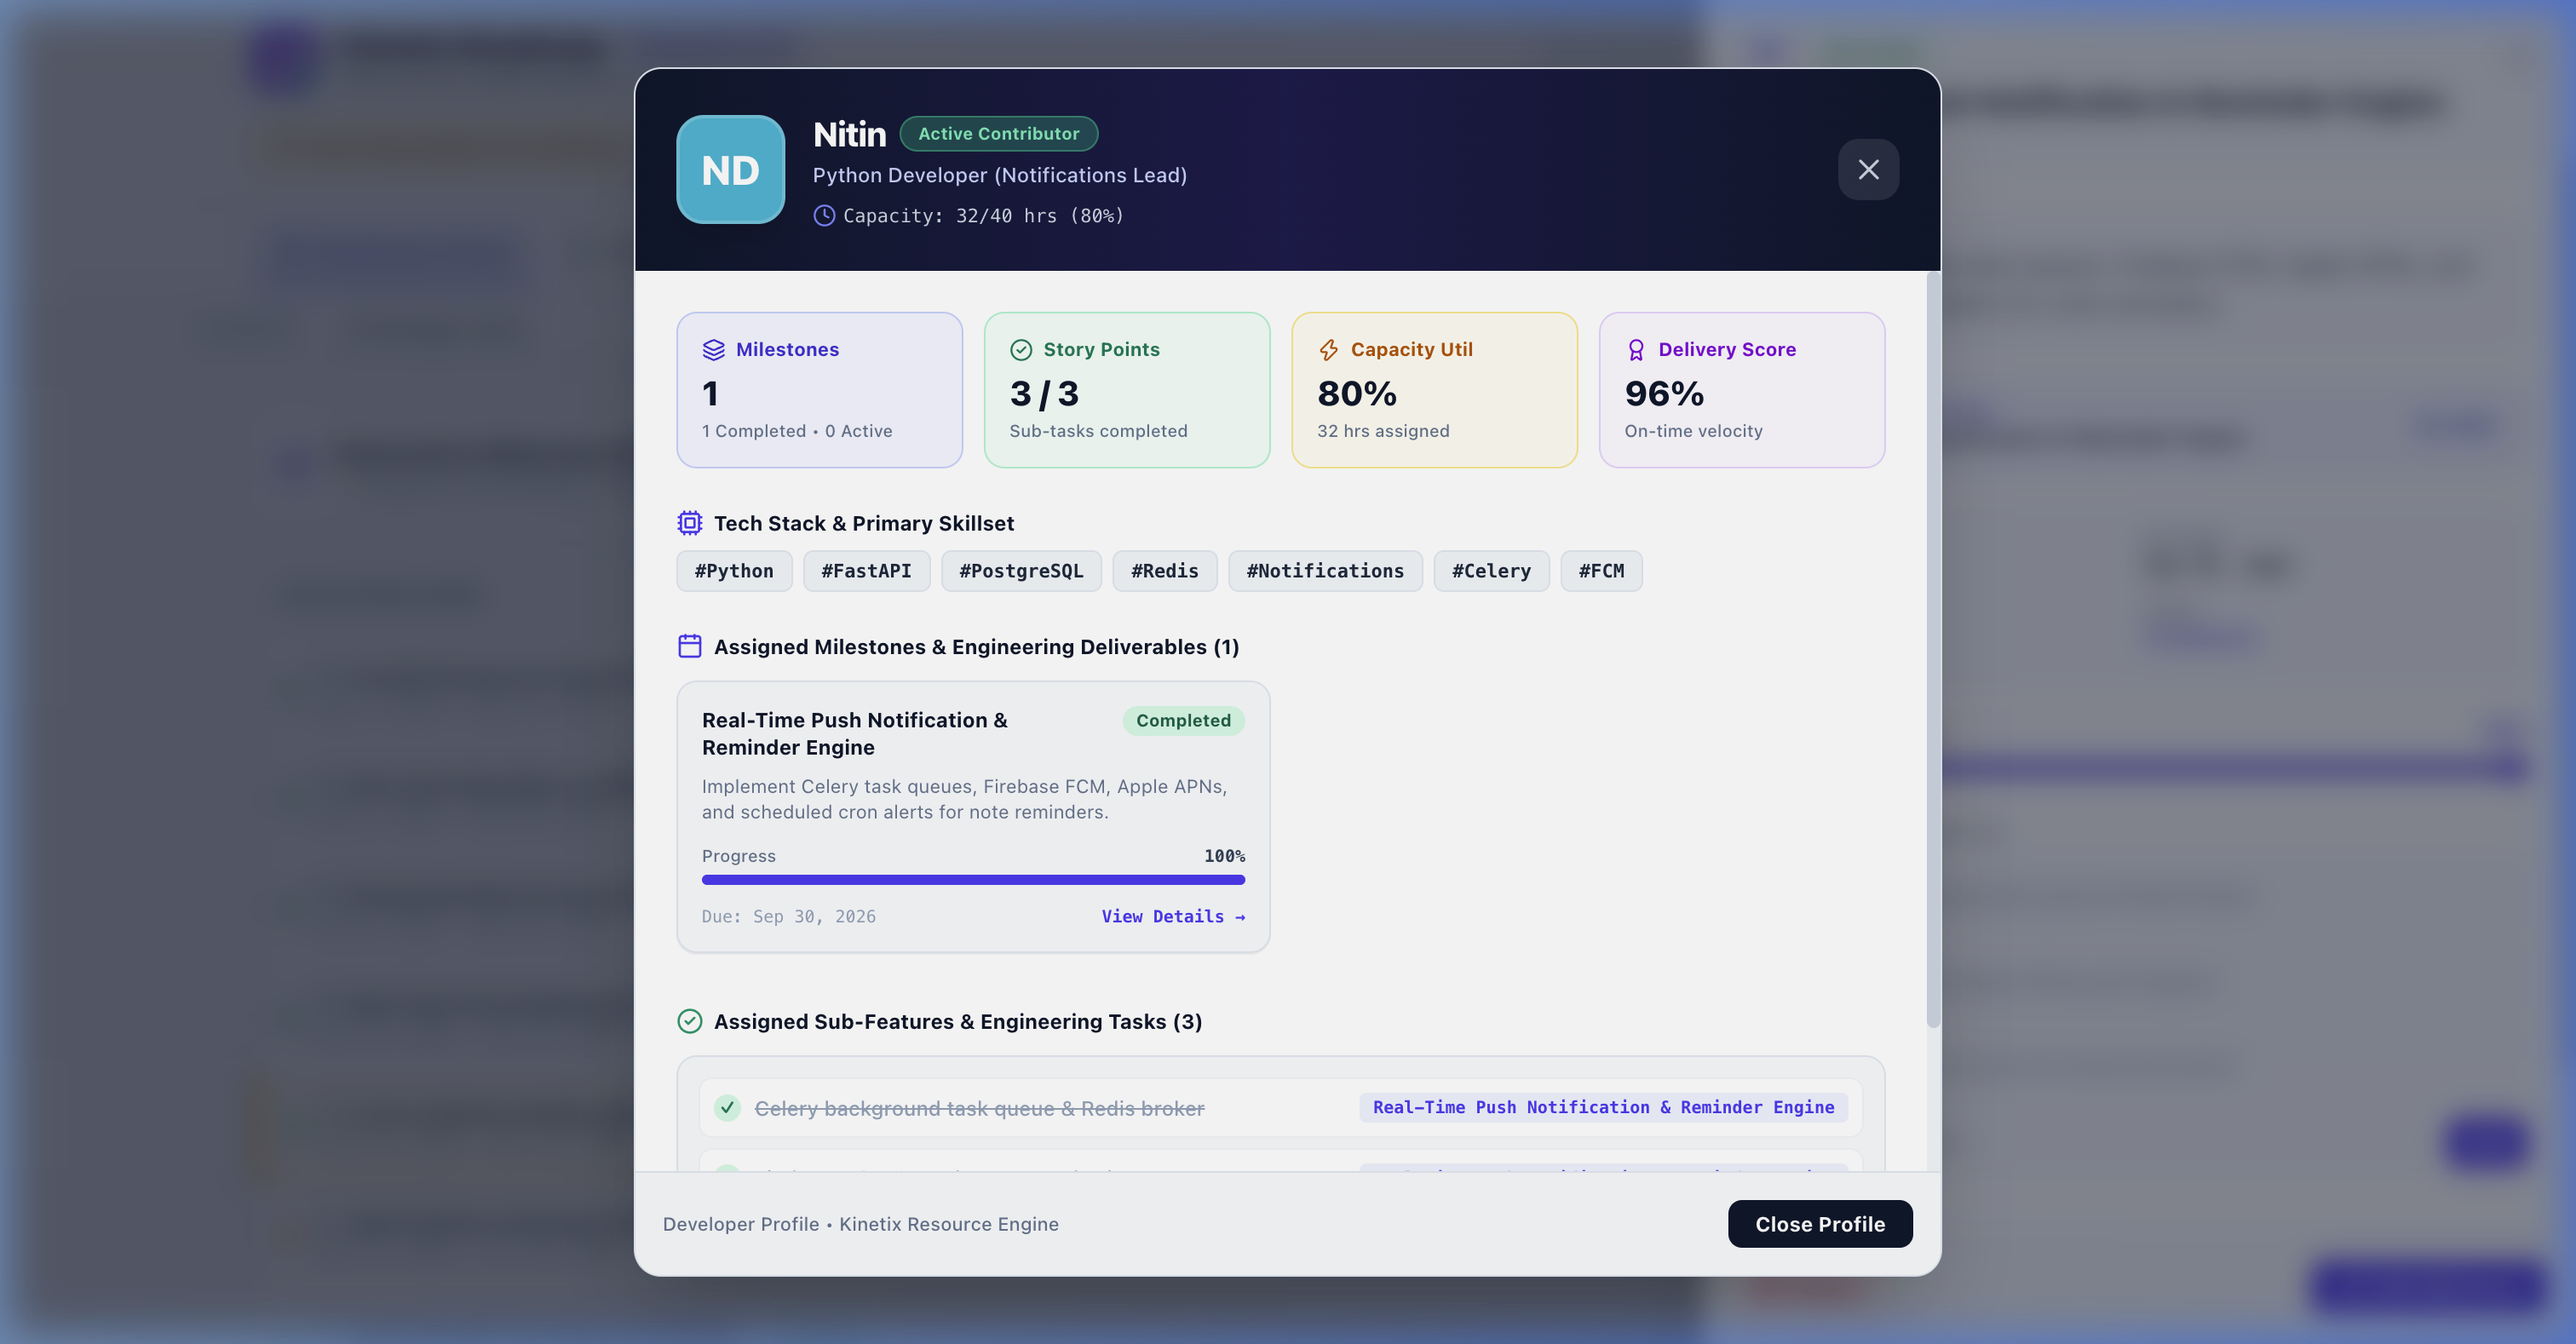
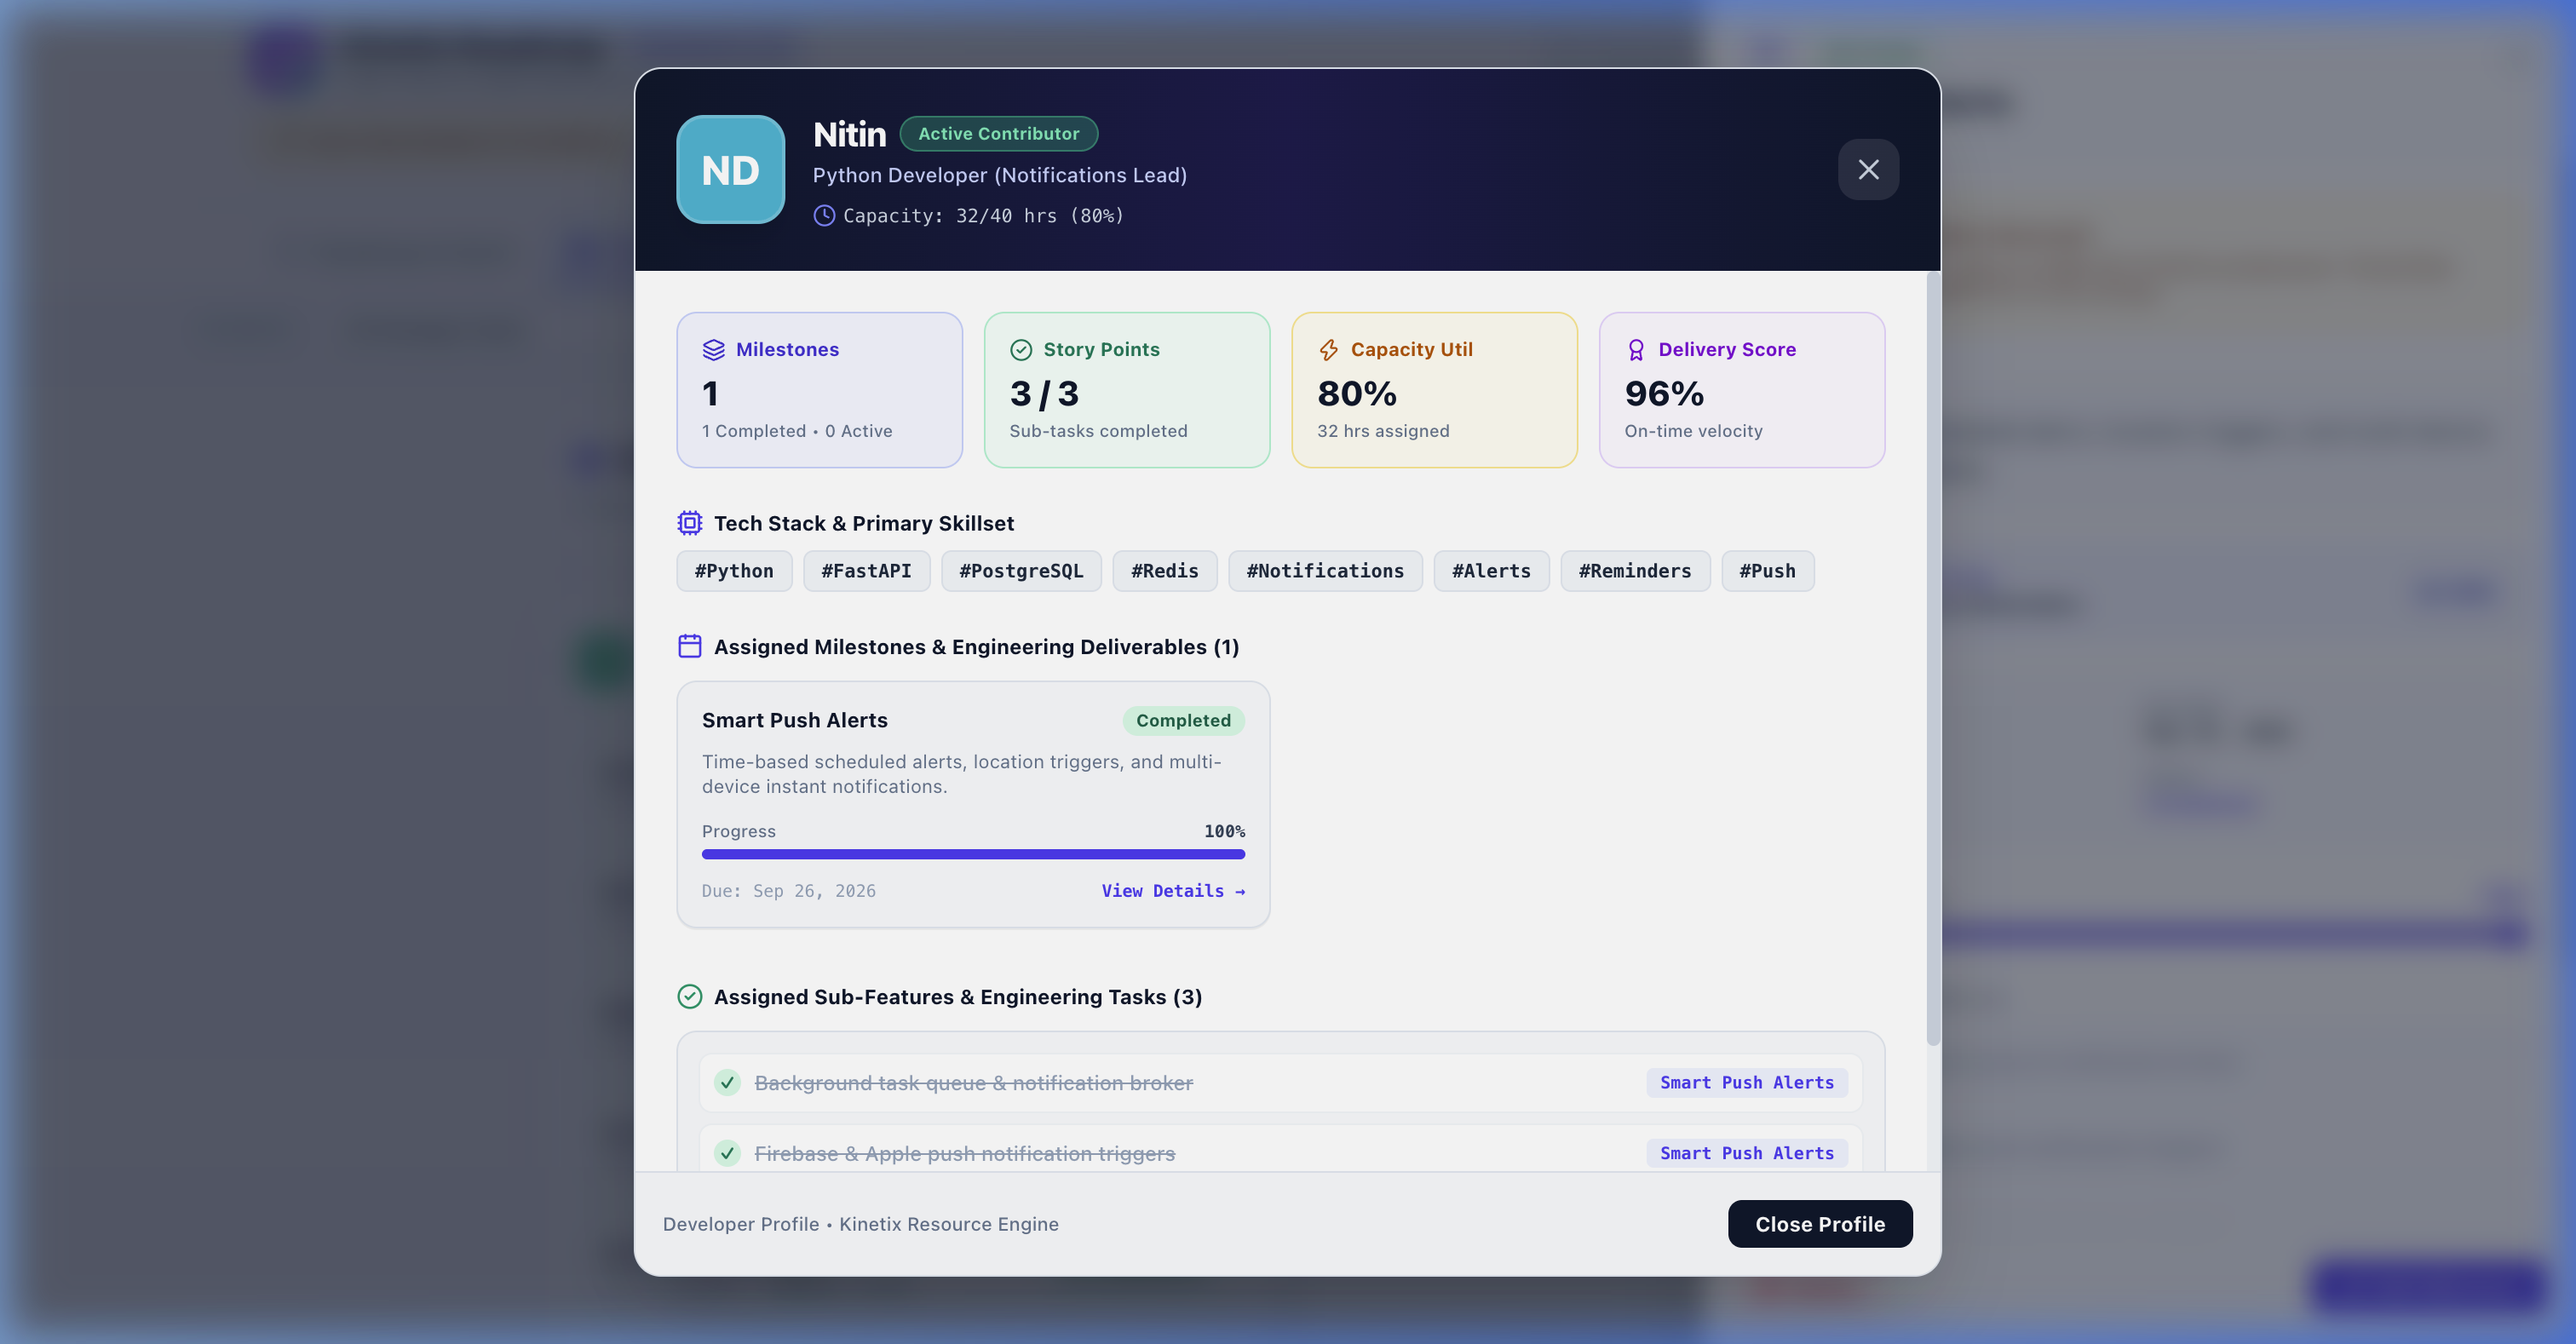
Update milestone titles to crisp 2-3 word user feature names (Cloud Data Sync, Web Rich Editor, Global Hosting Engine, Smart Push Alerts, iOS & Android Apps, Workspace Sharing, Quality & Security QA, AI Voice Transcribe)

diff --git a/src/data/mockData.js b/src/data/mockData.js
@@ -1,43 +1,43 @@
 export const initialGoals = [
   {
     id: 'goal-1',
-    title: 'Core Engine & Real-Time Sync Infrastructure',
-    category: 'Backend Architecture',
+    title: 'Cloud Core & Data Sync Engine',
+    category: 'Product Architecture',
     targetQuarter: 'Q4 2026',
     progress: 80,
     color: '#6366f1', // Indigo
     owner: 'Anurag',
-    description: 'Build robust Python FastAPI microservices, PostgreSQL database schema, Redis caching, and real-time offline sync.'
+    description: 'Deliver sub-50ms cloud note synchronization, offline database persistence, and robust platform security.'
   },
   {
     id: 'goal-2',
-    title: 'Cross-Platform Mobile App (iOS & Android)',
-    category: 'Mobile Clients',
+    title: 'Mobile App Experience (iOS & Android)',
+    category: 'Mobile Applications',
     targetQuarter: 'Q4 2026',
     progress: 55,
     color: '#ec4899', // Pink
     owner: 'Ram',
-    description: 'Deliver native-grade React Native app for iOS & Android with offline-first auto-sync, voice notes, and widgets.'
+    description: 'Build native iOS and Android apps with offline editing, voice memo recording, and home screen widgets.'
   },
   {
     id: 'goal-3',
-    title: 'Real-Time Push Notification & Reminder Engine',
-    category: 'Cloud Services',
+    title: 'Smart Push Alerts & Reminders',
+    category: 'Notifications',
     targetQuarter: 'Q3 2026',
     progress: 100,
     color: '#10b981', // Emerald
     owner: 'Nitin',
-    description: 'Implement Firebase FCM, Apple APNs, and Celery scheduled cron jobs for time-based & geo-fenced note alerts.'
+    description: 'Trigger instant mobile push alerts, scheduled calendar reminders, and geo-fenced location notifications.'
   },
   {
     id: 'goal-4',
-    title: 'Multi-Platform Workspace Note Sharing & Collaboration',
+    title: 'Workspace Sharing & Co-Editing',
     category: 'Collaboration',
     targetQuarter: 'Q3 2026',
     progress: 40,
     color: '#f59e0b', // Amber
     owner: 'Jitendra',
-    description: 'Enable secure link sharing, fine-grained permission control, and live multi-user co-editing via WebSockets.'
+    description: 'Enable one-click link sharing, custom access permissions, and real-time live co-editing across teams.'
   }
 ];
 
@@ -54,8 +54,8 @@ export const initialTeam = [
 export const initialMilestones = [
   {
     id: 'ms-1',
-    title: 'FastAPI Backend Architecture & PostgreSQL Schema',
-    description: 'Design multi-tenant PostgreSQL schema, FastAPI REST API foundation, and Redis caching for high-speed note CRUD ops.',
+    title: 'Cloud Data Sync',
+    description: 'Sub-50ms cloud data synchronization, secure user authentication, and high-speed note storage.',
     goalId: 'goal-1',
     startDate: '2026-09-01',
     dueDate: '2026-09-15',
@@ -69,19 +69,19 @@ export const initialMilestones = [
     riceConfidence: 0.95,
     riceEffort: 3,
     owner: 'Jitendra',
-    tags: ['Python', 'FastAPI', 'PostgreSQL', 'Backend'],
+    tags: ['Cloud', 'Sync', 'Security', 'Database'],
     progress: 100,
     dependencies: [],
     features: [
-      { id: 'f-101', title: 'FastAPI async REST endpoints for Notes & Labels', completed: true, points: 8 },
-      { id: 'f-102', title: 'PostgreSQL schema migration scripts with Alembic', completed: true, points: 5 },
-      { id: 'f-103', title: 'Redis cache layer for sub-50ms note fetching', completed: true, points: 5 }
+      { id: 'f-101', title: 'Instant REST API for Notes & Labels', completed: true, points: 8 },
+      { id: 'f-102', title: 'Database schema migration and data safety', completed: true, points: 5 },
+      { id: 'f-103', title: 'Sub-50ms Redis memory cache layer', completed: true, points: 5 }
     ]
   },
   {
     id: 'ms-2',
-    title: 'Rich-Text Web Editor & Offline Sync Engine',
-    description: 'Build TipTap rich text web dashboard with checklist support and IndexedDB offline storage auto-sync.',
+    title: 'Web Rich Editor',
+    description: 'Interactive formatting toolbar, checklists, bullet lists, and automatic offline local drafts.',
     goalId: 'goal-1',
     startDate: '2026-09-05',
     dueDate: '2026-09-20',
@@ -95,19 +95,19 @@ export const initialMilestones = [
     riceConfidence: 0.9,
     riceEffort: 3,
     owner: 'Ram',
-    tags: ['React', 'Frontend', 'TipTap', 'Offline'],
+    tags: ['Web', 'Editor', 'RichText', 'Offline'],
     progress: 100,
     dependencies: [],
     features: [
-      { id: 'f-201', title: 'TipTap rich text editor with checklist formatting', completed: true, points: 8 },
+      { id: 'f-201', title: 'Rich text editor with checklist formatting', completed: true, points: 8 },
       { id: 'f-202', title: 'IndexedDB local storage fallback manager', completed: true, points: 5 },
       { id: 'f-203', title: 'Automatic background sync queue handler', completed: true, points: 5 }
     ]
   },
   {
     id: 'ms-3',
-    title: 'Dockerized Microservices & AWS Cloud CI/CD',
-    description: 'Set up multi-container Docker infrastructure, AWS ECS deployment pipeline, and GitHub Actions CI/CD.',
+    title: 'Global Hosting Engine',
+    description: 'High-availability multi-region hosting, automated deployments, and sub-second load balancing.',
     goalId: 'goal-1',
     startDate: '2026-09-08',
     dueDate: '2026-09-22',
@@ -121,19 +121,19 @@ export const initialMilestones = [
     riceConfidence: 0.95,
     riceEffort: 2,
     owner: 'Shyam',
-    tags: ['DevOps', 'Docker', 'AWS', 'CI/CD'],
+    tags: ['Cloud', 'Hosting', 'Containers', 'CI/CD'],
     progress: 100,
     dependencies: [],
     features: [
-      { id: 'f-301', title: 'Docker-compose multi-service container setup', completed: true, points: 5 },
-      { id: 'f-302', title: 'AWS ECS Fargate cluster orchestration & ALB', completed: true, points: 8 },
-      { id: 'f-303', title: 'GitHub Actions automated build & test pipeline', completed: true, points: 5 }
+      { id: 'f-301', title: 'Multi-service container cluster setup', completed: true, points: 5 },
+      { id: 'f-302', title: 'AWS Cloud cluster orchestration & load balancer', completed: true, points: 8 },
+      { id: 'f-303', title: 'Automated build & release deployment pipeline', completed: true, points: 5 }
     ]
   },
   {
     id: 'ms-4',
-    title: 'Real-Time Push Notification & Reminder Engine',
-    description: 'Implement Celery task queues, Firebase FCM, Apple APNs, and scheduled cron alerts for note reminders.',
+    title: 'Smart Push Alerts',
+    description: 'Time-based scheduled alerts, location triggers, and multi-device instant notifications.',
     goalId: 'goal-3',
     startDate: '2026-09-12',
     dueDate: '2026-09-26',
@@ -147,19 +147,19 @@ export const initialMilestones = [
     riceConfidence: 0.9,
     riceEffort: 3,
     owner: 'Nitin',
-    tags: ['Python', 'Notifications', 'Celery', 'FCM'],
+    tags: ['Notifications', 'Alerts', 'Reminders', 'Push'],
     progress: 100,
     dependencies: ['ms-1'],
     features: [
-      { id: 'f-401', title: 'Celery background task queue & Redis broker', completed: true, points: 5 },
-      { id: 'f-402', title: 'Firebase FCM & Apple APNs push triggers', completed: true, points: 8 },
-      { id: 'f-403', title: 'Scheduled cron worker for timed note alerts', completed: true, points: 5 }
+      { id: 'f-401', title: 'Background task queue & notification broker', completed: true, points: 5 },
+      { id: 'f-402', title: 'Firebase & Apple push notification triggers', completed: true, points: 8 },
+      { id: 'f-403', title: 'Scheduled worker for timed note reminders', completed: true, points: 5 }
     ]
   },
   {
     id: 'ms-5',
-    title: 'Cross-Platform Mobile App (React Native iOS & Android)',
-    description: 'Develop Google Keep-style mobile application with offline auto-sync, grid layout, and audio note attachments.',
+    title: 'iOS & Android Apps',
+    description: 'Native mobile experience with touch gestures, offline editing, home screen widgets, and voice memos.',
     goalId: 'goal-2',
     startDate: '2026-09-18',
     dueDate: '2026-10-15',
@@ -173,19 +173,19 @@ export const initialMilestones = [
     riceConfidence: 0.85,
     riceEffort: 4,
     owner: 'Akshay',
-    tags: ['React Native', 'Mobile', 'iOS', 'Android'],
+    tags: ['Mobile', 'iOS', 'Android', 'App'],
     progress: 60,
     dependencies: ['ms-1', 'ms-2'],
     features: [
-      { id: 'f-501', title: 'React Native unified UI component kit', completed: true, points: 8 },
-      { id: 'f-502', title: 'SQLite local mobile database storage', completed: true, points: 5 },
-      { id: 'f-503', title: 'Voice note recording & audio player module', completed: false, points: 5 }
+      { id: 'f-501', title: 'Unified mobile UI component kit', completed: true, points: 8 },
+      { id: 'f-502', title: 'Offline mobile database storage engine', completed: true, points: 5 },
+      { id: 'f-503', title: 'Voice note recording & audio playback module', completed: false, points: 5 }
     ]
   },
   {
     id: 'ms-6',
-    title: 'Multi-Platform Workspace Note Sharing & Collaboration',
-    description: 'Build public share links, granular view/edit permission levels, and WebSocket live co-editing.',
+    title: 'Workspace Sharing',
+    description: 'Granular access permissions, instant share links, and real-time live co-editing.',
     goalId: 'goal-4',
     startDate: '2026-09-22',
     dueDate: '2026-10-20',
@@ -199,19 +199,19 @@ export const initialMilestones = [
     riceConfidence: 0.8,
     riceEffort: 3,
     owner: 'Jitendra',
-    tags: ['Python', 'WebSockets', 'Sharing', 'Collaboration'],
+    tags: ['Sharing', 'Collaboration', 'Permissions', 'Co-Editing'],
     progress: 40,
     dependencies: ['ms-1'],
     features: [
       { id: 'f-601', title: 'Granular note permissions (Viewer, Editor, Owner)', completed: true, points: 5 },
       { id: 'f-602', title: 'Public note link generator with optional password', completed: false, points: 5 },
-      { id: 'f-603', title: 'WebSockets live co-editing & cursor presences', completed: false, points: 8 }
+      { id: 'f-603', title: 'Live co-editing & multi-cursor presence', completed: false, points: 8 }
     ]
   },
   {
     id: 'ms-7',
-    title: 'Automated QA Test Suite & Performance Load Verification',
-    description: 'Execute PyTest API suite, Cypress E2E web regression suite, and Locust 10k concurrent user load tests.',
+    title: 'Quality & Security QA',
+    description: 'Comprehensive end-to-end regression testing, security auditing, and high-concurrency load verification.',
     goalId: 'goal-1',
     startDate: '2026-09-25',
     dueDate: '2026-10-22',
@@ -225,19 +225,19 @@ export const initialMilestones = [
     riceConfidence: 0.9,
     riceEffort: 3,
     owner: 'Dinesh',
-    tags: ['QA', 'Automation', 'PyTest', 'Cypress'],
+    tags: ['QA', 'Testing', 'Security', 'Automation'],
     progress: 50,
     dependencies: ['ms-5', 'ms-6'],
     features: [
-      { id: 'f-701', title: 'PyTest backend API test suite (90%+ coverage)', completed: true, points: 5 },
-      { id: 'f-702', title: 'Cypress web E2E automated regression suite', completed: false, points: 5 },
-      { id: 'f-703', title: 'Locust load testing suite verifying 10k users', completed: false, points: 5 }
+      { id: 'f-701', title: 'Automated backend API test suite (90%+ coverage)', completed: true, points: 5 },
+      { id: 'f-702', title: 'Web E2E automated regression test suite', completed: false, points: 5 },
+      { id: 'f-703', title: 'High-concurrency load testing for 10k users', completed: false, points: 5 }
     ]
   },
   {
     id: 'ms-8',
-    title: 'AI-Powered Voice Note Transcription & Semantic Search',
-    description: 'Integrate OpenAI Whisper for automatic audio-to-text conversion and pgvector for semantic note search.',
+    title: 'AI Voice Transcribe',
+    description: 'Automatic voice-to-text audio conversion and AI-powered natural language note search.',
     goalId: 'goal-2',
     startDate: '2026-10-10',
     dueDate: '2026-11-05',
@@ -251,12 +251,12 @@ export const initialMilestones = [
     riceConfidence: 0.8,
     riceEffort: 4,
     owner: 'Ram',
-    tags: ['AI', 'Whisper', 'Search', 'pgvector'],
+    tags: ['AI', 'Voice', 'Transcription', 'Search'],
     progress: 0,
     dependencies: ['ms-6'],
     features: [
-      { id: 'f-801', title: 'OpenAI Whisper API voice note transcription pipeline', completed: false, points: 8 },
-      { id: 'f-802', title: 'pgvector semantic vector search & note recommendations', completed: false, points: 8 }
+      { id: 'f-801', title: 'AI voice note audio transcription pipeline', completed: false, points: 8 },
+      { id: 'f-802', title: 'Natural language search & note recommendations', completed: false, points: 8 }
     ]
   }
 ];
@@ -305,7 +305,7 @@ export const initialIdeas = [
 ];
 
 export const initialReleases = [
-  { id: 'rel-1', name: 'KeepNote v1.0 Backend & Web Launch', date: '2026-09-25', status: 'Completed' },
+  { id: 'rel-1', name: 'KeepNote v1.0 Core Engine & Web Launch', date: '2026-09-25', status: 'Completed' },
   { id: 'rel-2', name: 'KeepNote v1.5 Mobile App & Push Reminders', date: '2026-10-25', status: 'In Progress' },
   { id: 'rel-3', name: 'KeepNote v2.0 Workspace Sharing & AI Search', date: '2026-11-20', status: 'Planning' }
 ];

diff --git a/src/context/ProjectContext.jsx b/src/context/ProjectContext.jsx
@@ -4,7 +4,7 @@ import { detectDependencyConflicts, autoRescheduleDependencies } from '../utils/
 
 const ProjectContext = createContext();
 
-const STORAGE_KEY = 'kinetix_note_app_v3';
+const STORAGE_KEY = 'kinetix_note_app_v4';
 
 export function ProjectProvider({ children }) {
   // Load initial state from LocalStorage if available
